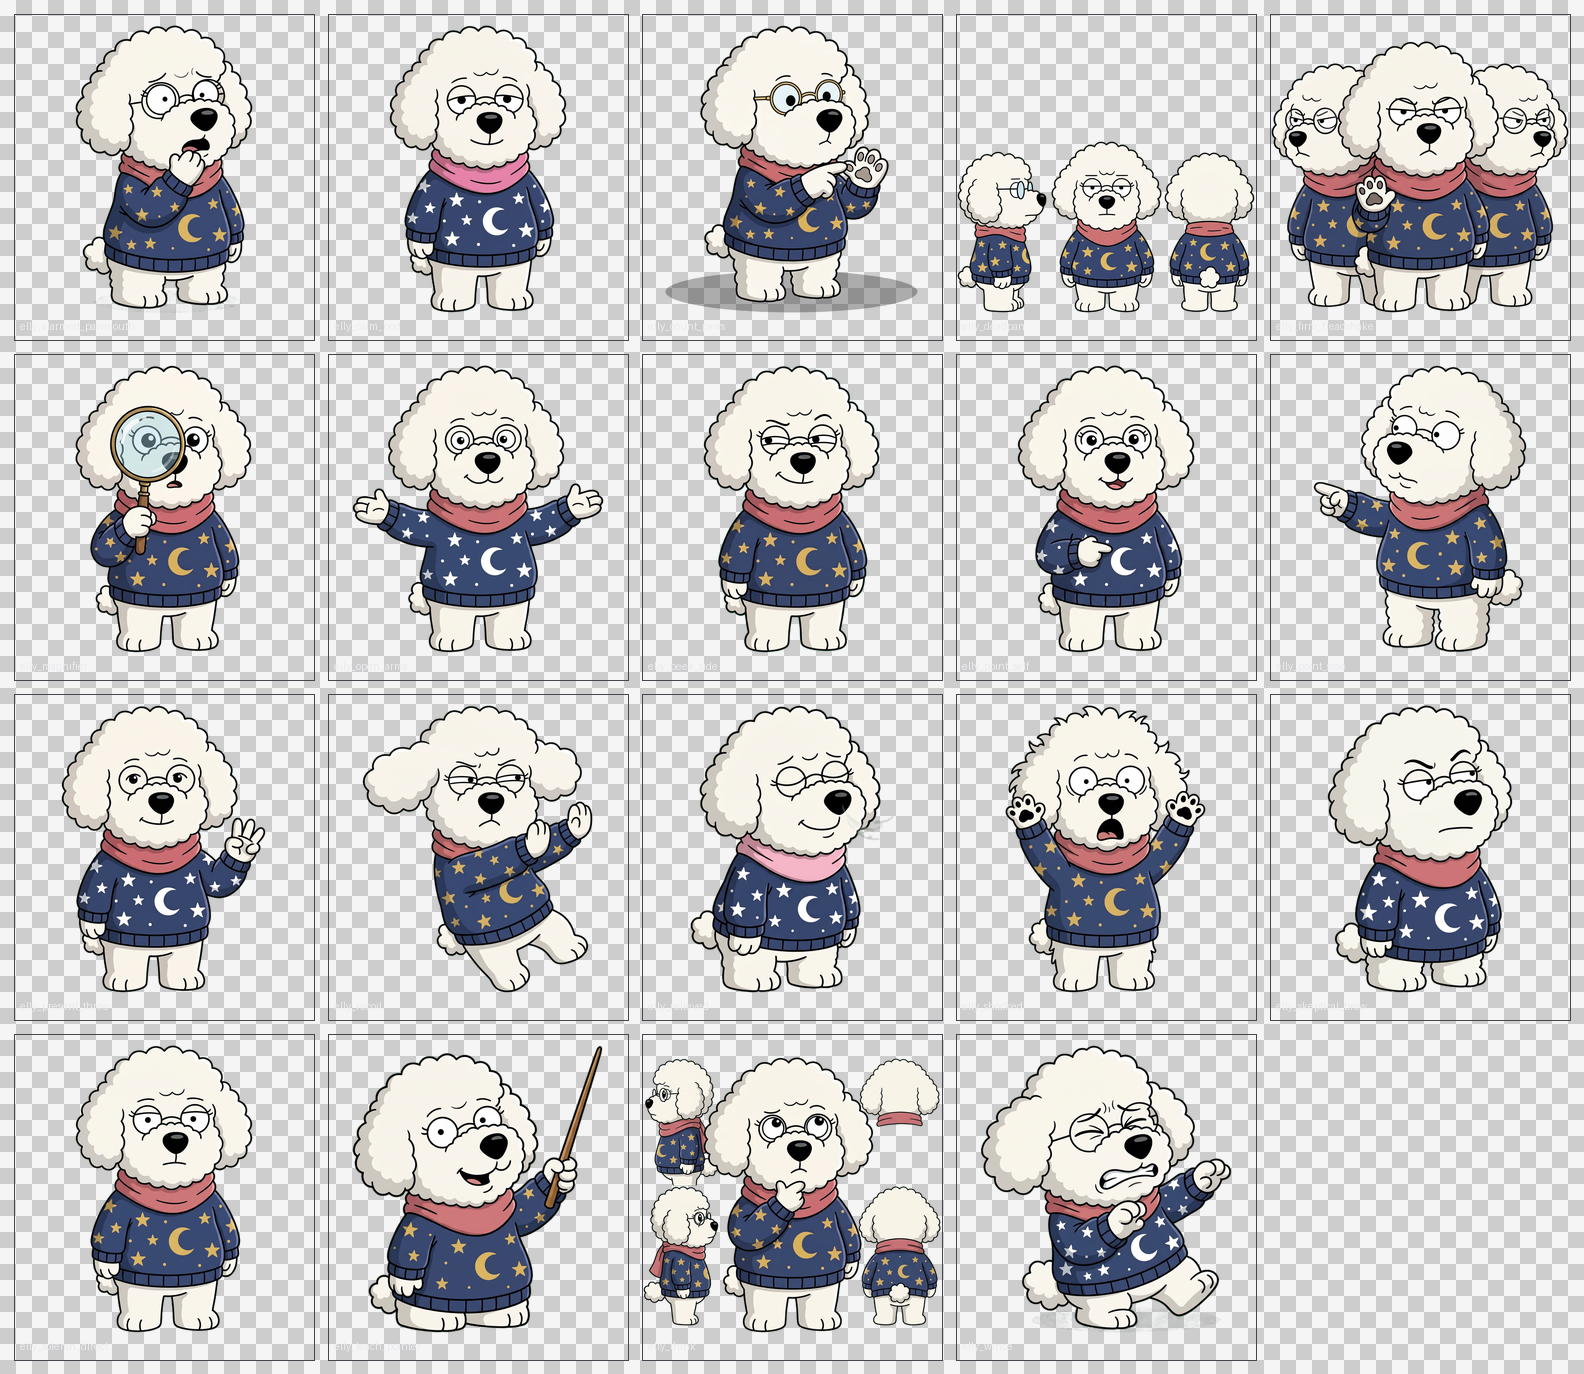
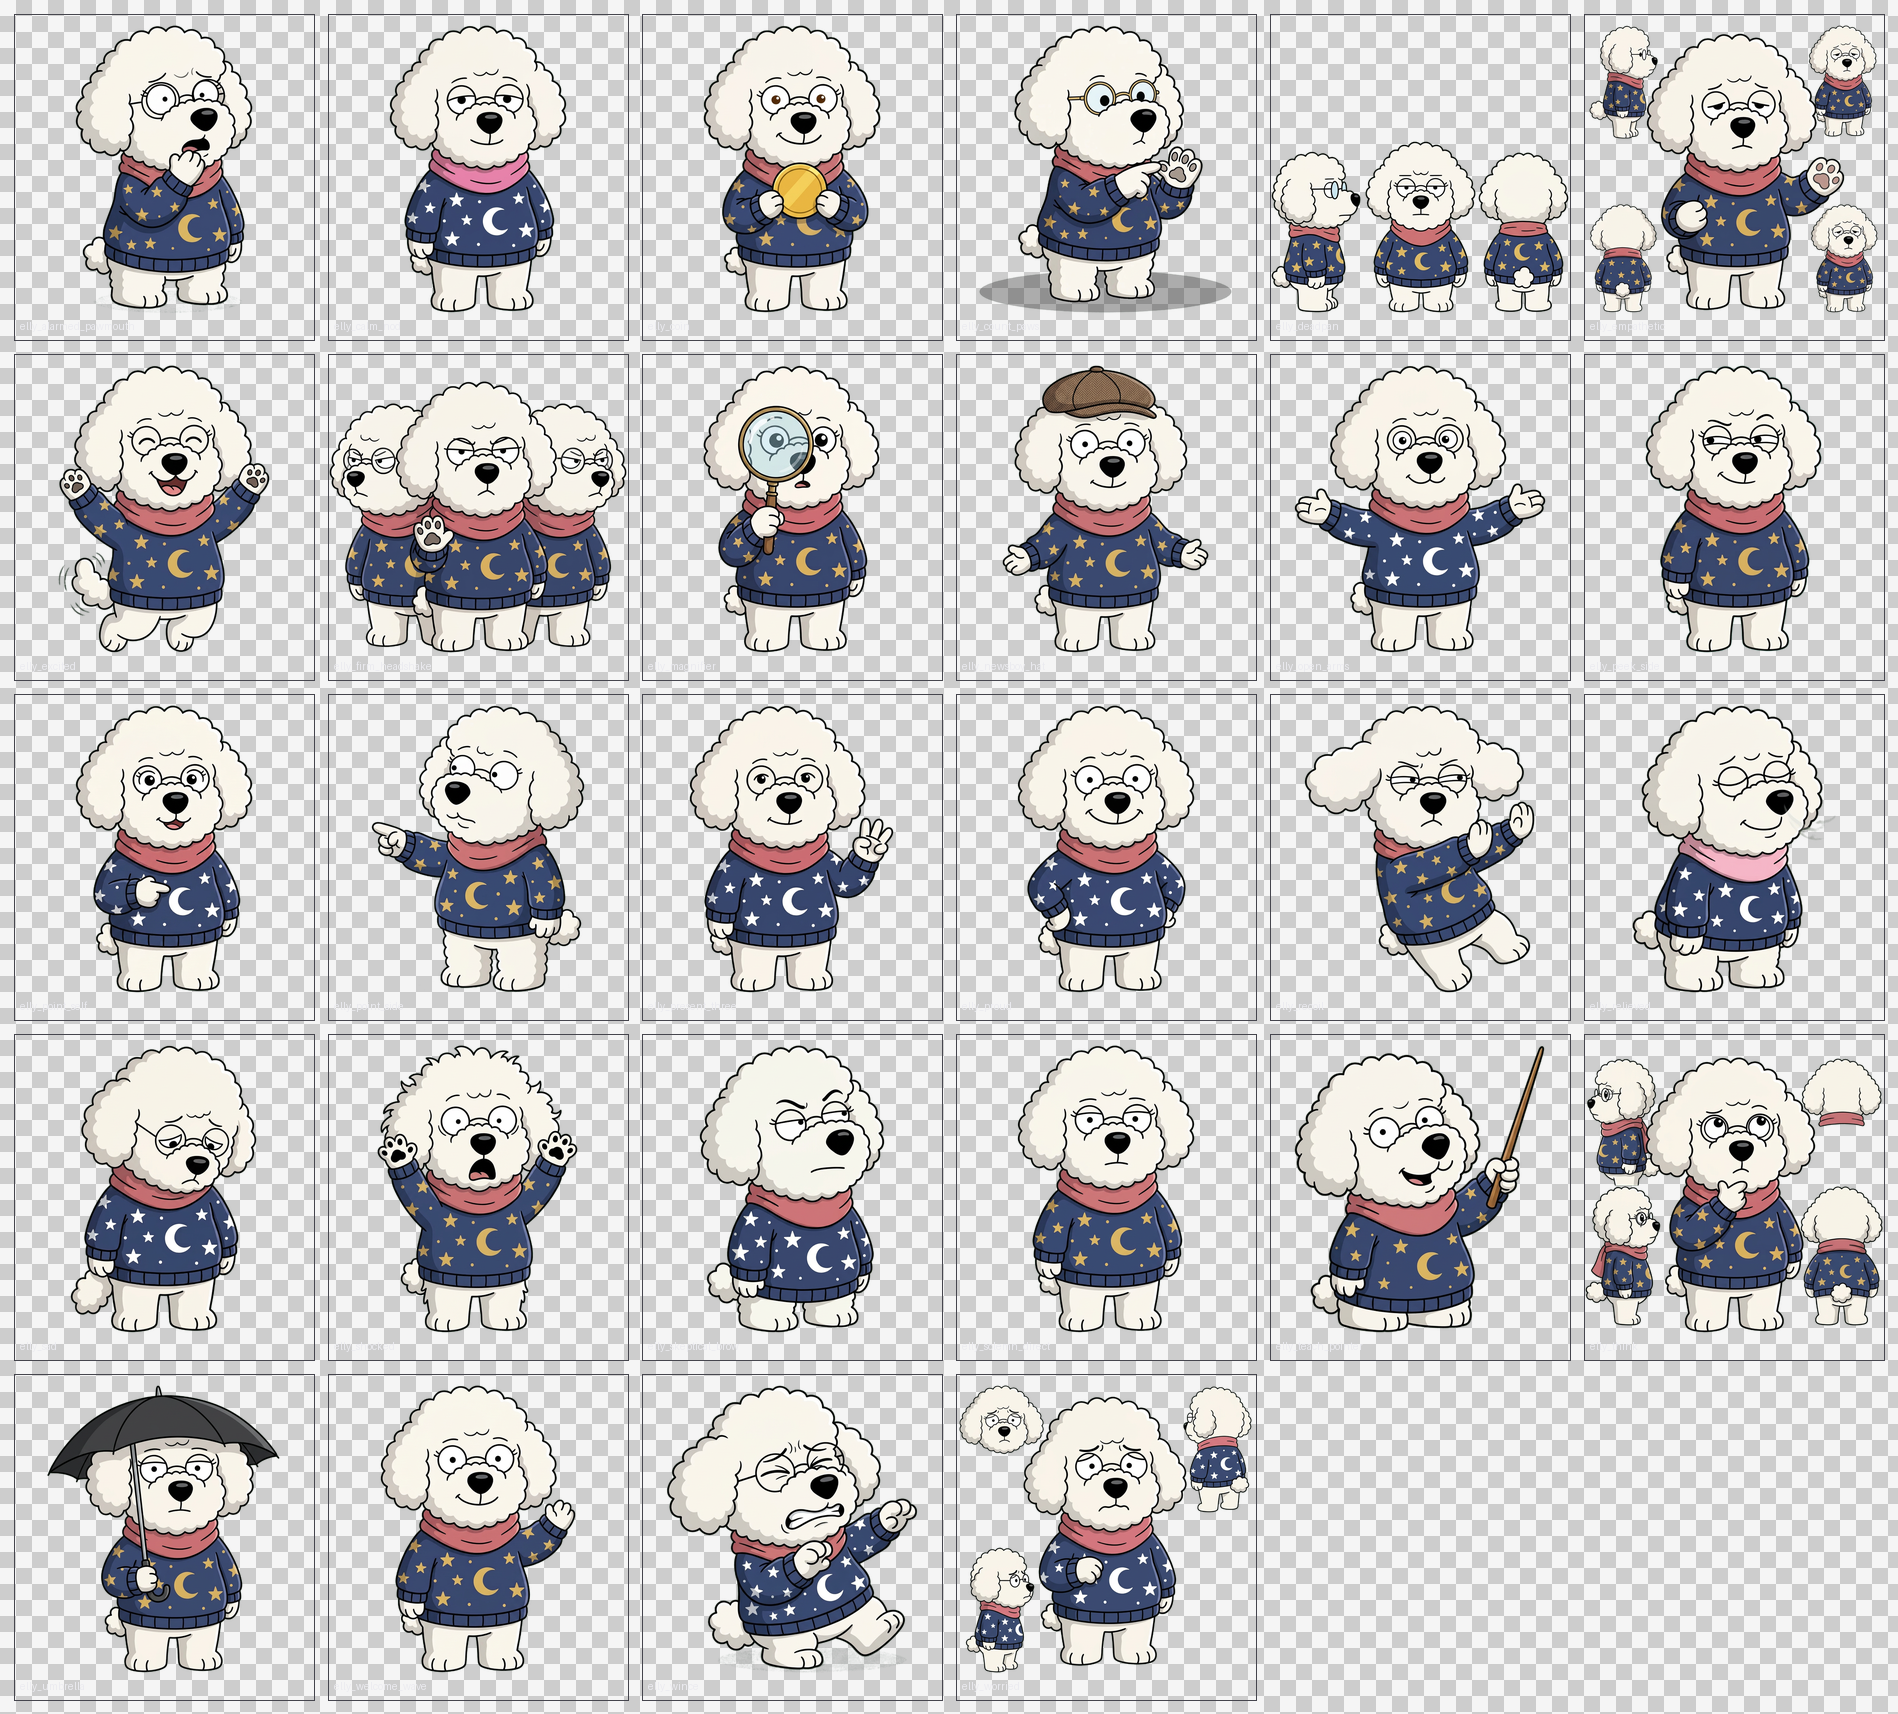
Add 9 poses (emotional set + 1929 props); 28/33, zero unresolved beats
New: worried, sad, excited, welcome_wave, proud, empathetic, coin, umbrella,
newsboy_hat - the remaining high-demand emotional beats plus the era props the
shot list calls for. All anchored on generated art, none from Drive.

The quality gate caught its first real failure: elly_newspaper rendered the
paper covering Elly's entire body (navy 0.2%, pink 0.0% - no sweater, no scarf,
no character visible). Quarantined in greenscreen/rejected/ with the reason
recorded in the manifest; regeneration is queued for the next batch.

217 storyboard beats now route onto a generated pose with 0 unresolved.

diff --git a/tools/build_pose_manifest.py b/tools/build_pose_manifest.py
@@ -132,26 +132,26 @@ POSES = [
          note="Chapter 5 liquidity + Chapter 7 recovery."),
 
     # ---- still to generate ----
-    dict(id="welcome_wave", file="elly_welcome_wave", source="planned",
+    dict(id="welcome_wave", file="elly_welcome_wave", source="generated",
          tags=["welcome", "waving", "greeting", "sign-off", "final wave", "energetic greeting",
                "welcoming pose", "welcoming sign-off", "outro", "intro"],
          note="Episode open and the Smart Bark sign-off."),
-    dict(id="worried", file="elly_worried", source="planned",
+    dict(id="worried", file="elly_worried", source="generated",
          tags=["worried", "worry", "anxious", "troubled", "uneasy", "concerned frown",
                "knowing anxious", "looks upward worried", "worried thought"],
          note="Crash and debt beats."),
-    dict(id="proud", file="elly_proud", source="planned",
+    dict(id="proud", file="elly_proud", source="generated",
          tags=["proud", "proudly", "satisfied", "pleased", "impressed", "admiration",
                "approving", "success", "triumph"],
          note="Livermore's win, Kennedy's foresight."),
-    dict(id="excited", file="elly_excited", source="planned",
+    dict(id="excited", file="elly_excited", source="generated",
          tags=["excited", "energetic", "enthusiastic", "bouncing", "booming", "obsessed",
                "big smile", "exaggerated smile"],
          note="Roaring Twenties mania (Ch1)."),
     dict(id="sitting_quiet", file="elly_sitting_quiet", source="planned",
          tags=["sitting", "quiet", "still", "listening", "resting", "contemplative"],
          note="Quiet connective beats and the slow blink on the memorial card."),
-    dict(id="sad", file="elly_sad", source="planned",
+    dict(id="sad", file="elly_sad", source="generated",
          tags=["sad", "crying", "sorrow", "head tilt", "sad head tilt", "tiny exhale",
                "grief", "downcast"],
          note="Ch6 Livermore. Handled as solemn, never comic."),
@@ -162,21 +162,24 @@ POSES = [
          tags=["confused", "perplexed", "bewildered", "lost", "scratches head",
                "does not understand"],
          note="Margin/shorting explainer beats."),
-    dict(id="empathetic", file="elly_empathetic", source="planned",
+    dict(id="empathetic", file="elly_empathetic", source="generated",
          tags=["empathetic", "sympathetic", "kind", "soft", "breadline", "hardship",
                "unemployment", "pity", "compassion"],
          note="Breadline / unemployment. Must not read as comic."),
     dict(id="newspaper", file="elly_newspaper", source="planned",
          tags=["newspaper", "headline", "black thursday", "black tuesday", "ticker",
                "press", "front page"],
-         note="Ch2. No legible text in the art - headlines are edit overlays."),
-    dict(id="coin", file="elly_coin", source="planned",
+         note="Ch2. No legible text in the art - headlines are edit overlays. "
+              "First attempt REJECTED by validate_poses.py: the paper covered her whole "
+              "body (navy 0.2%, pink 0.0%), so Elly and her outfit were hidden. "
+              "Regenerate with the paper small and held to one side."),
+    dict(id="coin", file="elly_coin", source="generated",
          tags=["coin", "cash", "money", "liquid", "savings", "pile", "coins"],
          note="Ch5 'When Cash Becomes Power' hero prop."),
-    dict(id="umbrella", file="elly_umbrella", source="planned",
+    dict(id="umbrella", file="elly_umbrella", source="generated",
          tags=["umbrella", "storm", "protect", "shelter", "survive", "rain"],
          note="Ch7 'SURVIVE THE STORM' - capital protected as the crash passes."),
-    dict(id="newsboy_hat", file="elly_newsboy_hat", source="planned",
+    dict(id="newsboy_hat", file="elly_newsboy_hat", source="generated",
          tags=["hat", "1920s", "era", "period", "newsboy cap", "flat cap"],
          note="Client-approved era flourish: signature outfit + a 1920s cap."),
     dict(id="ledger", file="elly_ledger", source="planned",

diff --git a/README.md b/README.md
@@ -31,8 +31,8 @@ signature always stays.
 
 ## Pose status
 
-`20 / 34` poses cut out. **217** storyboard "ELLY ACTIVENESS" beats are routed to
-canonical poses (`6` unresolved → neutral thinking). Run for the current state:
+`28 / 33` poses cut out. **217** storyboard "ELLY ACTIVENESS" beats are routed to
+canonical poses, **0 unresolved**. Run for the current state:
 
 ```bash
 python3 tools/build_pose_manifest.py
@@ -102,3 +102,9 @@ Rejects a generated plate if it has no usable green plate, if the plate is a
 gradient rather than flat (which leaves a halo), if the navy sweater / pink
 scarf / white fur signature has drifted, or if the character is too small or
 cropped by the frame.
+
+It has already earned its keep: the first `elly_newspaper` attempt passed a
+visual once-over but failed the gate with navy 0.2% / pink 0.0% - the newspaper
+was covering Elly's whole body, hiding both her and her outfit. The plate is
+quarantined in `greenscreen/rejected/` and will be regenerated with the paper
+small and held to one side.
